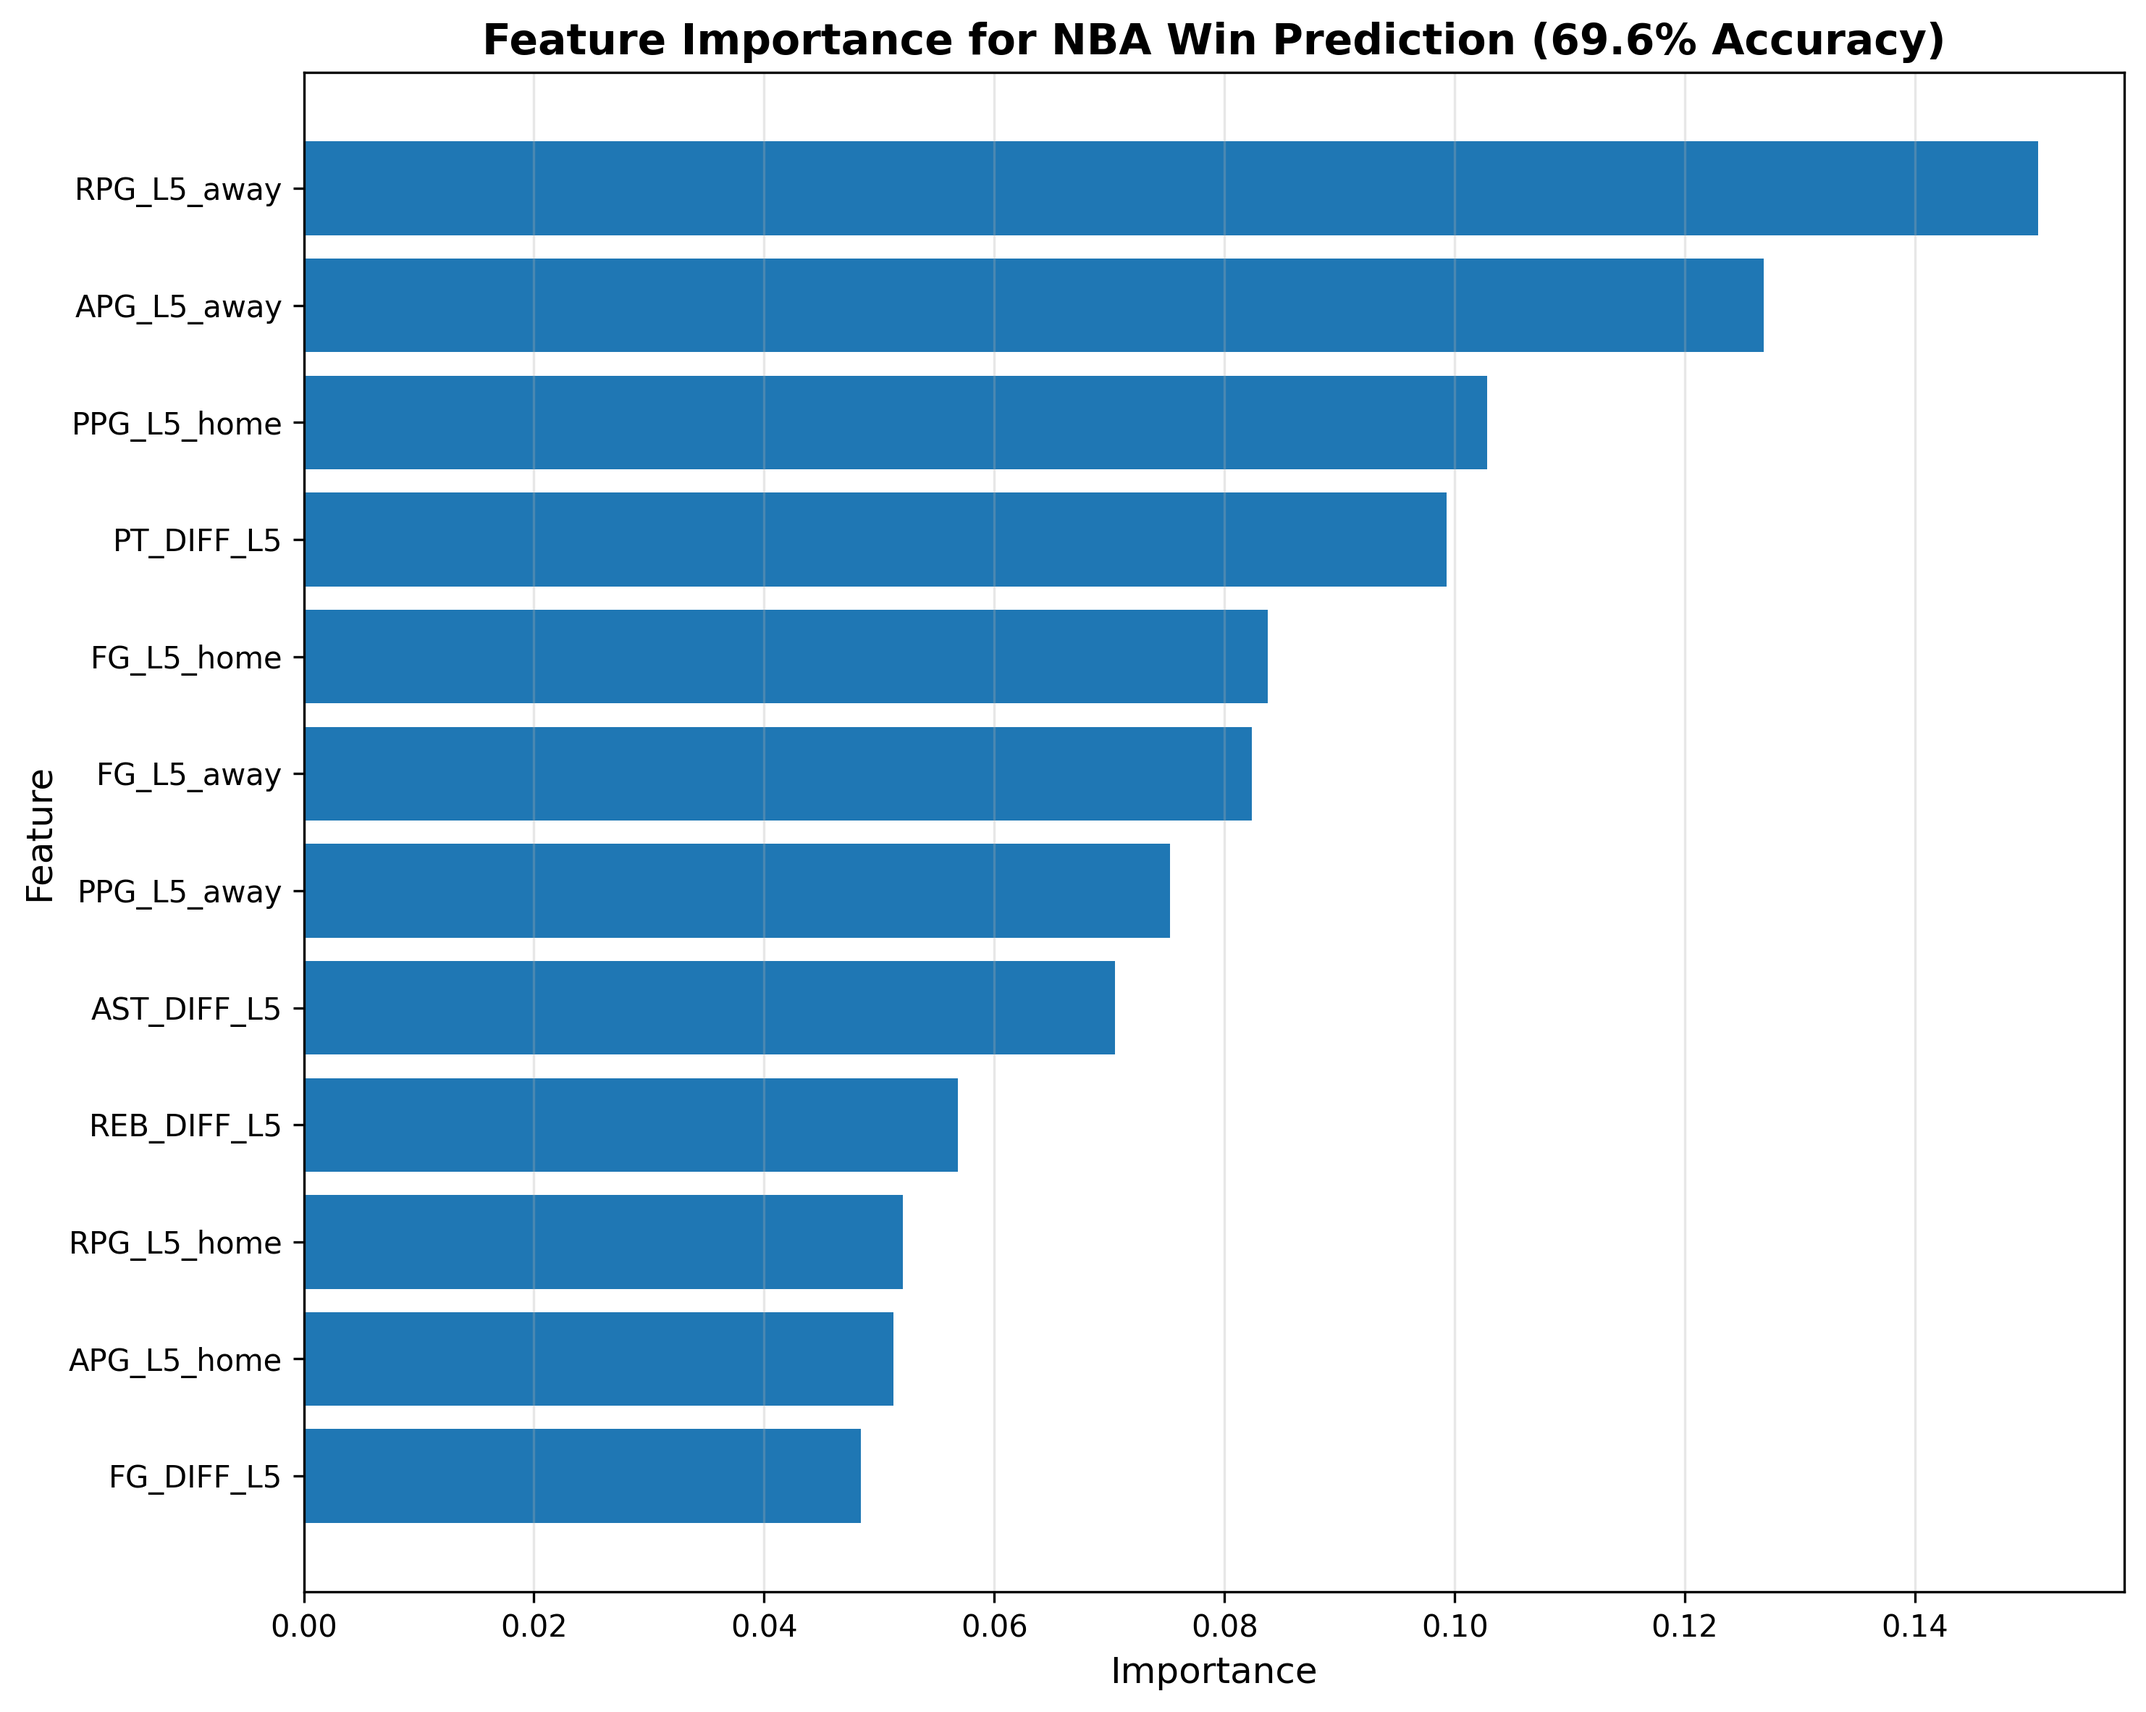
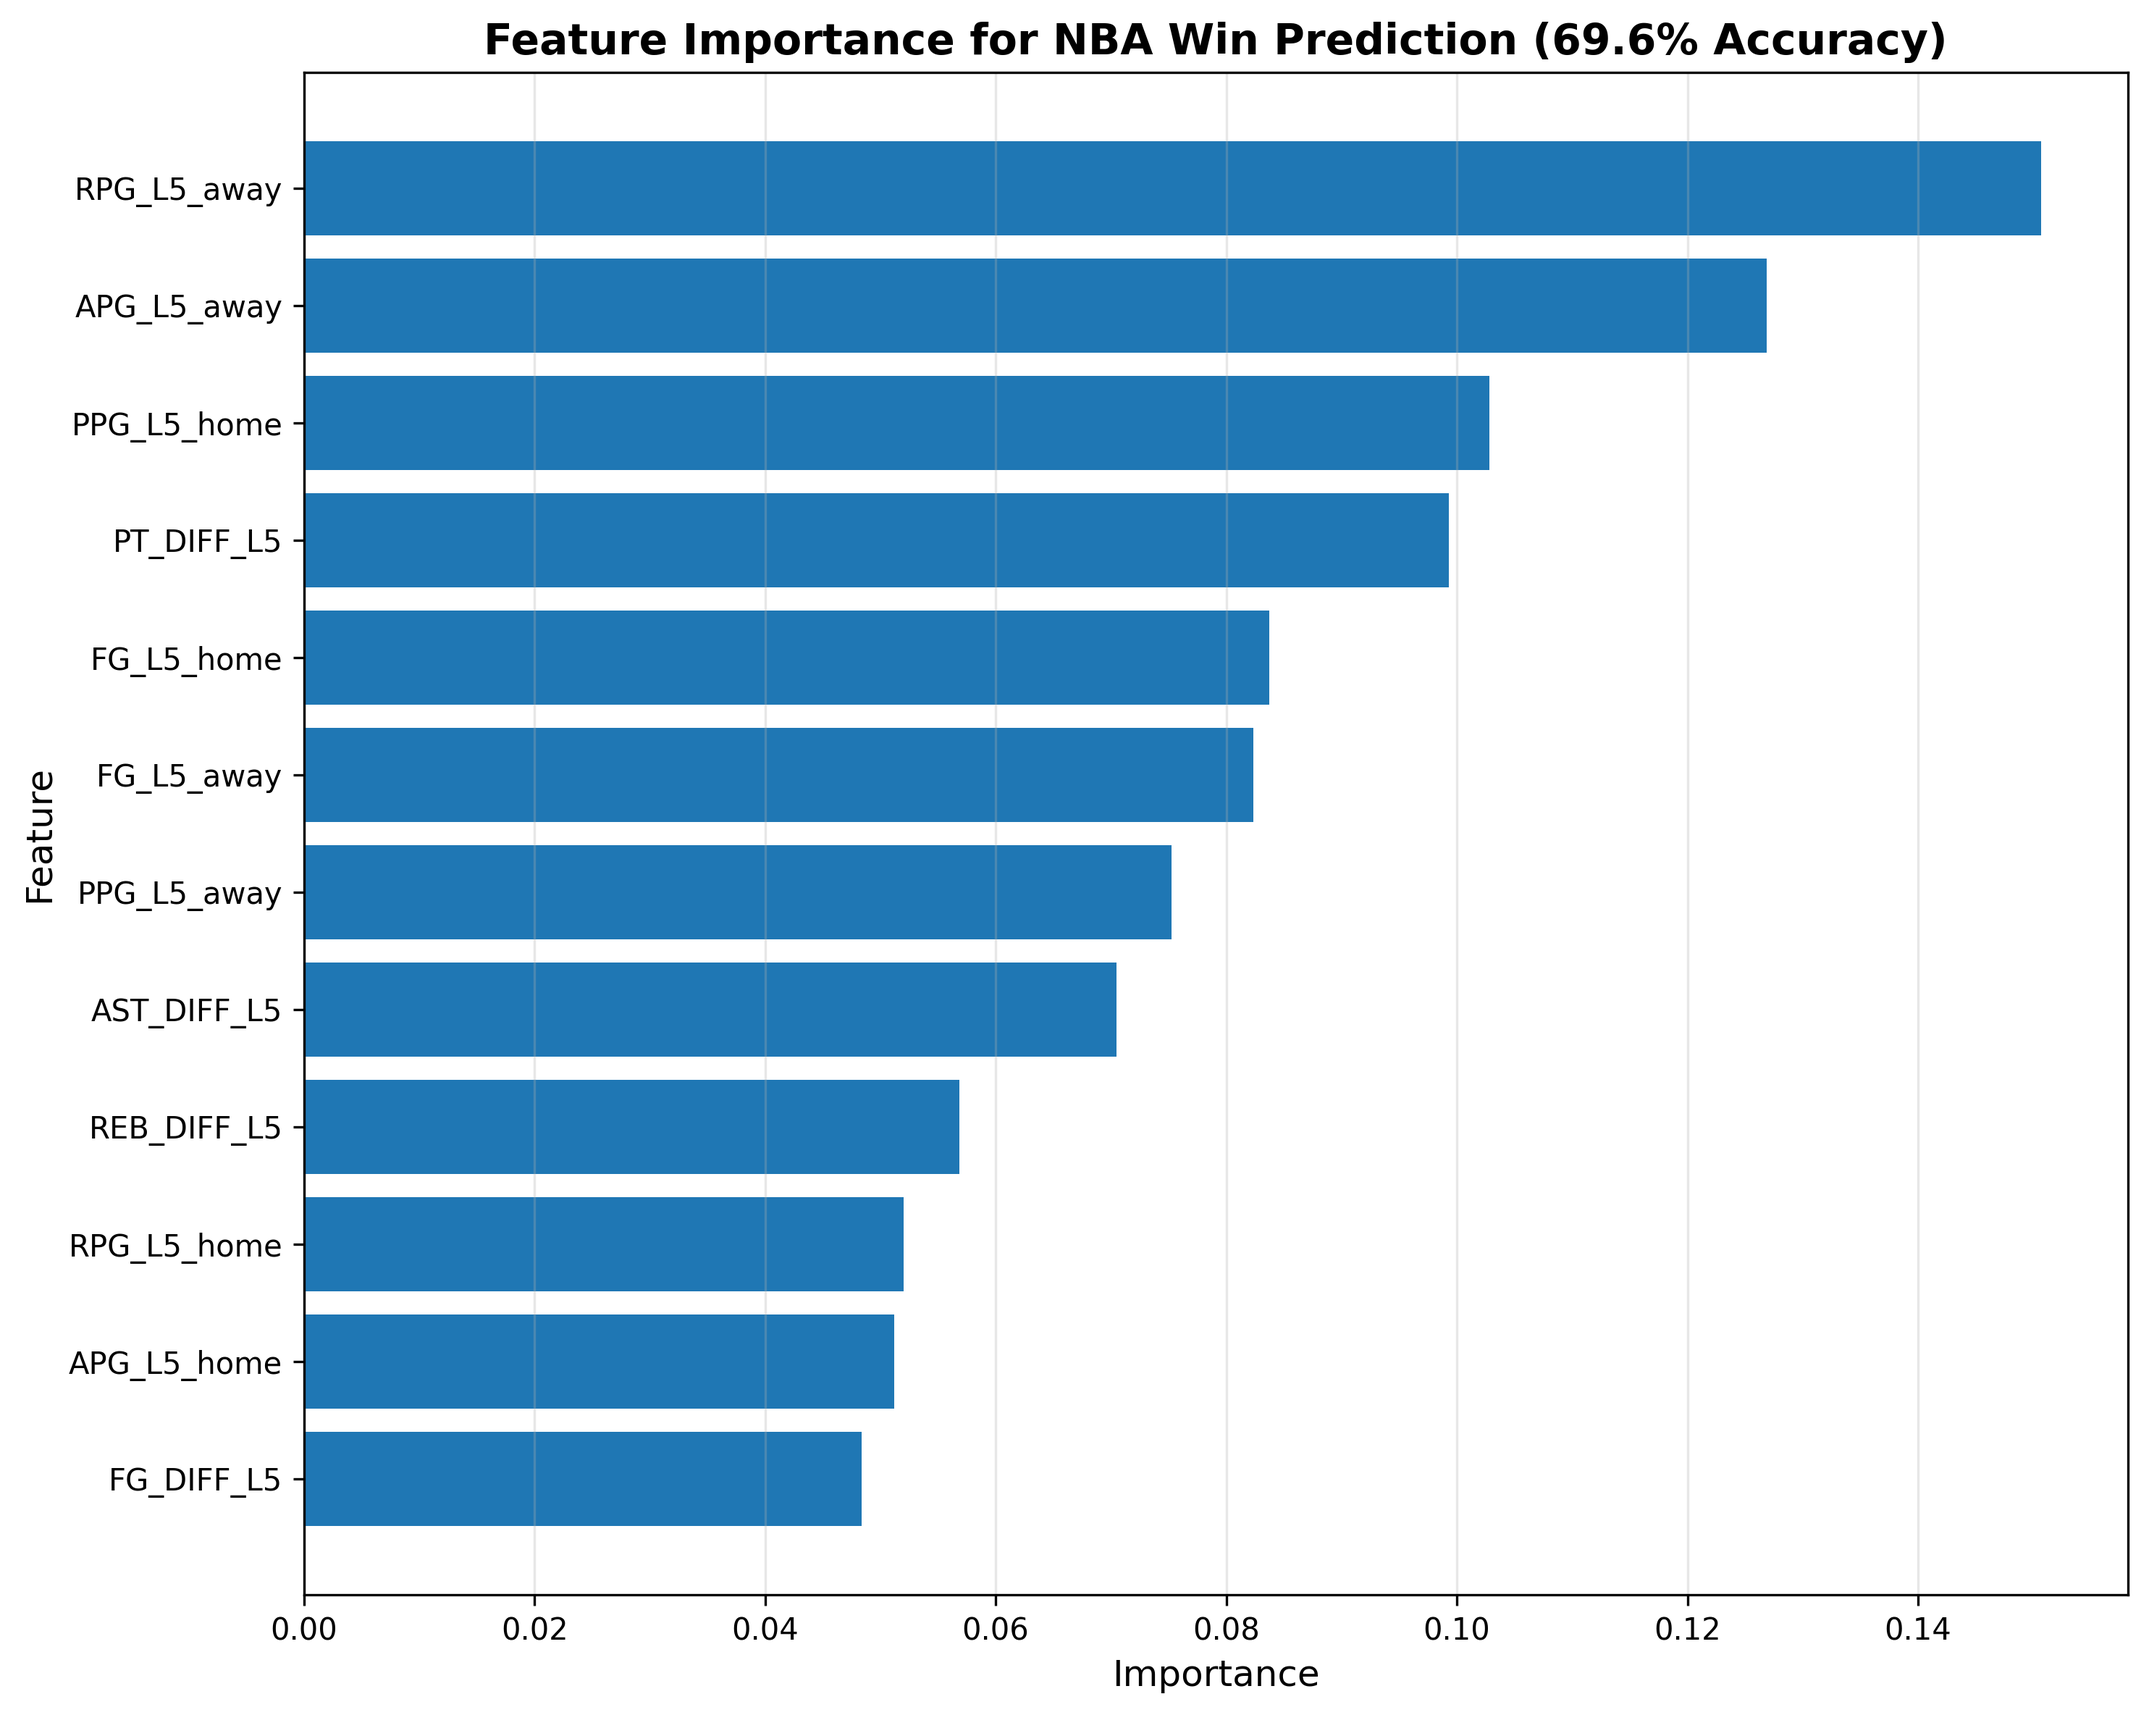
added README and made it so rolling_avgs() has a more readable function name

diff --git a/main.py b/main.py
@@ -8,14 +8,14 @@ import pandas as pd
 import feature_funcs
 import matplotlib.pyplot as plt
 
-# read, sort, and dropna to ensure no extra rows being processed
+# read, sort chronologically, and dropna to ensure no extra rows being processed
 games = pd.read_csv('nba_games/games.csv').sort_values('GAME_DATE_EST')
 print(f"Before cleaning: {len(games)} games")
 games = games.dropna(subset=['AST_home', 'AST_away', 'FG_PCT_home', 'FG_PCT_away'])
 print(f"After cleaning: {len(games)} games")
 
 #create a rolling average attr and split into train/test
-games = feature_funcs.create_all_rolling_features(games)
+games = feature_funcs.rolling_avgs(games)
 print(f'created all rolling averages - {len(games)} rows')
 
 # differential features
@@ -28,7 +28,7 @@ print('created assist differential feature')
 games['FG_DIFF_L5'] = games['FG_L5_home'] - games['FG_L5_away']
 print('created field goal PCT differential feature')
 
-# clean and perform train/test split
+# clean and perform train/test split VERY IMPORTANT!!!
 print(f"Before dropna: {len(games)} games")
 games = games.dropna()
 print(f"After dropna: {len(games)} games") 

diff --git a/feature_funcs.py b/feature_funcs.py
@@ -4,7 +4,7 @@ calculates rolling average of "attr" with size "win_sz"
 main_games is the dataframe to be modified by adding a new column "new_col_name"
 '''
 
-def create_all_rolling_features(games):
+def rolling_avgs(games):
     """Create all rolling features in ONE pass to avoid merge explosions"""
     
     # Create list to store all team-level rolling stats

diff --git a/README.md b/README.md
@@ -1,0 +1,243 @@
+# NBA Game Win Prediction Model
+
+A machine learning project that predicts NBA game outcomes with **69.6% accuracy** using rolling performance statistics and XGBoost classification.
+
+## Project Overview
+
+This model predicts whether the home team will win based on recent team performance metrics. It beats the NBA historical baseline of ~60% home team win rate, demonstrating that recent form and relative team strength are strong predictors of game outcomes.
+
+**Key Achievement:** Improved from 54% (worse than random) to 69.6% accuracy through proper feature engineering and data pipeline optimization.
+
+---
+
+## Model Performance
+
+- **Accuracy:** 69.6%
+- **Baseline:** 60% (approximate NBA home team historical win rate)
+- **Dataset:** 41,321 games (after cleaning)
+- **Features:** 12 engineered features from rolling statistics
+- **Algorithm:** XGBoost Classifier
+- **Validation:** Chronological train/test split (80/20)
+
+---
+
+## Key Features
+
+### Rolling Averages (5-game windows):
+- Points per game (PPG_L5)
+- Rebounds per game (RPG_L5)
+- Assists per game (APG_L5)
+- Field goal percentage (FG_L5)
+
+### Differential Features:
+- Point differential (PT_DIFF_L5)
+- Rebound differential (REB_DIFF_L5)
+- Assist differential (AST_DIFF_L5)
+- FG% differential (FG_DIFF_L5)
+
+All features use proper time-series validation with `.shift(1)` to prevent data leakage.
+
+---
+
+## Feature Importance Analysis
+
+![Feature Importance](feature_importance.png)
+
+**Top 3 Predictors:**
+1. **RPG_L5_away (15%)** - Away team's recent rebounding
+2. **APG_L5_away (13%)** - Away team's recent assists
+3. **PPG_L5_home (10%)** - Home team's recent scoring
+
+**Key Insight:** Away team performance (rebounds + assists) is the strongest predictor, suggesting strong away teams can overcome home court advantage by dominating the boards and ball movement.
+
+---
+
+## Technical Implementation
+
+### Data Pipeline
+```
+Raw CSV (26,651 games)
+    ↓
+Clean NaN values → 26,552 games
+    ↓
+Single-pass rolling feature engineering
+    ↓
+Create differential features
+    ↓
+Drop NaN from rolling windows → 41,321 games
+    ↓
+Chronological 80/20 split
+    ↓
+XGBoost training & evaluation
+```
+
+### Architecture Decisions
+
+**Single-Pass Feature Engineering:**
+- Calculates all rolling statistics in one pass
+- Performs only 2 merges (home + away) instead of 8
+- Prevents cascading dataframe duplication
+- Original approach caused 26K → 10M row explosion
+
+**Proper Time-Series Validation:**
+- Chronological split (train on past, test on future)
+- Rolling windows use `.shift(1)` to only use past data
+- No data leakage from future games
+
+---
+
+## Challenges resolved
+
+### 1. Memory Explosion (26K → 10M rows)
+**Problem:** Iterative merging caused cascading duplication
+```python
+# Broken: 4 function calls = 8 merges
+games = rolling_avg(games, 'PTS', 5, 'PPG_L5')
+games = rolling_avg(games, 'REB', 5, 'RPG_L5')
+# ... each merge multiplied duplicates
+
+# Fixed: Single-pass = 2 merges
+games = create_all_rolling_features(games)
+```
+
+**Solution:** Batch process all features, merge once per team type
+
+### 2. Low Accuracy (54% → 69.6%)
+**Problem:** 
+- Missing differential features (relative team strength)
+- NaN values corrupting training data
+- Data leakage from improper feature engineering
+
+**Solution:**
+- Added differential features (PT_DIFF, REB_DIFF, etc.)
+- Proper NaN handling with `dropna()` after feature creation
+- Time-series validation with chronological splits
+
+### 3. Pandas Merge Complexity
+**Problem:** Index corruption, duplicate keys, column naming conflicts
+
+**Solution:**
+- `reset_index(drop=True)` after every sort
+- `drop_duplicates()` on merge keys
+- Explicit column renaming before merges
+- Debug prints after each operation
+
+---
+
+## Project Structure
+```
+nba_pred/
+├── main.py                    # Main training pipeline
+├── feature_funcs.py           # Feature engineering functions
+├── nba_games/
+│   └── games.csv             # Raw NBA game data
+├── feature_importance.png     # Visualization
+└── README.md                 # This file
+```
+
+---
+
+## Usage
+
+### Requirements
+```bash
+pip install pandas numpy xgboost scikit-learn matplotlib
+```
+
+### Run the Model
+```bash
+python main.py
+```
+
+### Output
+```
+Before cleaning: 26651 games
+After cleaning: 26552 games
+created all rolling averages - 41342 rows
+Before dropna: 41342 games
+After dropna: 41321 games
+
+Model accuracy: 69.55837870538414%
+
+Significant Feature Importances:
+----------------------------------------
+RPG_L5_away         : 0.1507
+APG_L5_away         : 0.1269
+PPG_L5_home         : 0.1028
+PT_DIFF_L5          : 0.0993
+...
+```
+
+---
+
+## Key Learnings
+
+### Data Cleaning
+- Always validate row counts after merges
+- Reset indices after sorting operations
+- Drop duplicates before merging
+- Handle NaN values at the right pipeline stage
+- Use chronological splits for time-series data
+
+### Feature Engineering
+- Differential features > raw features for competitive scenarios
+- Rolling windows need proper shifting to prevent leakage
+- Batch processing > iterative processing for merge operations
+
+### Model Insights
+- Away team recent performance matters more than expected
+- Point differential is important but not dominant (10%)
+- Home court advantage can be overcome by strong road teams
+
+---
+
+## Future Improvements
+
+- [ ] Add rest days / back-to-back game indicators
+- [ ] Include opponent strength metrics
+- [ ] Add playoff vs regular season context
+- [ ] Experiment with different window sizes (3-game vs 10-game)
+- [ ] Try ensemble models (XGBoost + LightGBM)
+- [ ] Add win streak / momentum features
+- [ ] Predict point spreads (regression task)
+
+---
+
+## Notes
+
+**Why 69.6% and not 80%+?**
+
+NBA games have inherent randomness:
+- Injuries, referee calls, clutch moments
+- Even Vegas odds makers struggle with precision
+- 69.6% beating the 60% baseline shows the model captures real signal
+
+**Dataset Considerations:**
+- Historical data (2003-2023)
+- No player-level stats (team-level only)
+- No injury/roster information
+- No advanced metrics (net rating, pace, etc.)
+
+Despite these limitations, the model demonstrates strong predictive power through careful feature engineering.
+
+---
+
+## Contact
+
+For questions or collaboration: [Your Email/GitHub]
+
+---
+
+## Acknowledgments
+
+Dataset: https://www.kaggle.com/datasets/nathanlauga/nba-games
+
+Built as part of a data science portfolio to demonstrate:
+- Time-series ML validation
+- Feature engineering creativity
+- Data pipeline optimization
+- Problem-solving through debugging complex issues
+
+---
+
+**Last Updated:** January 2025
